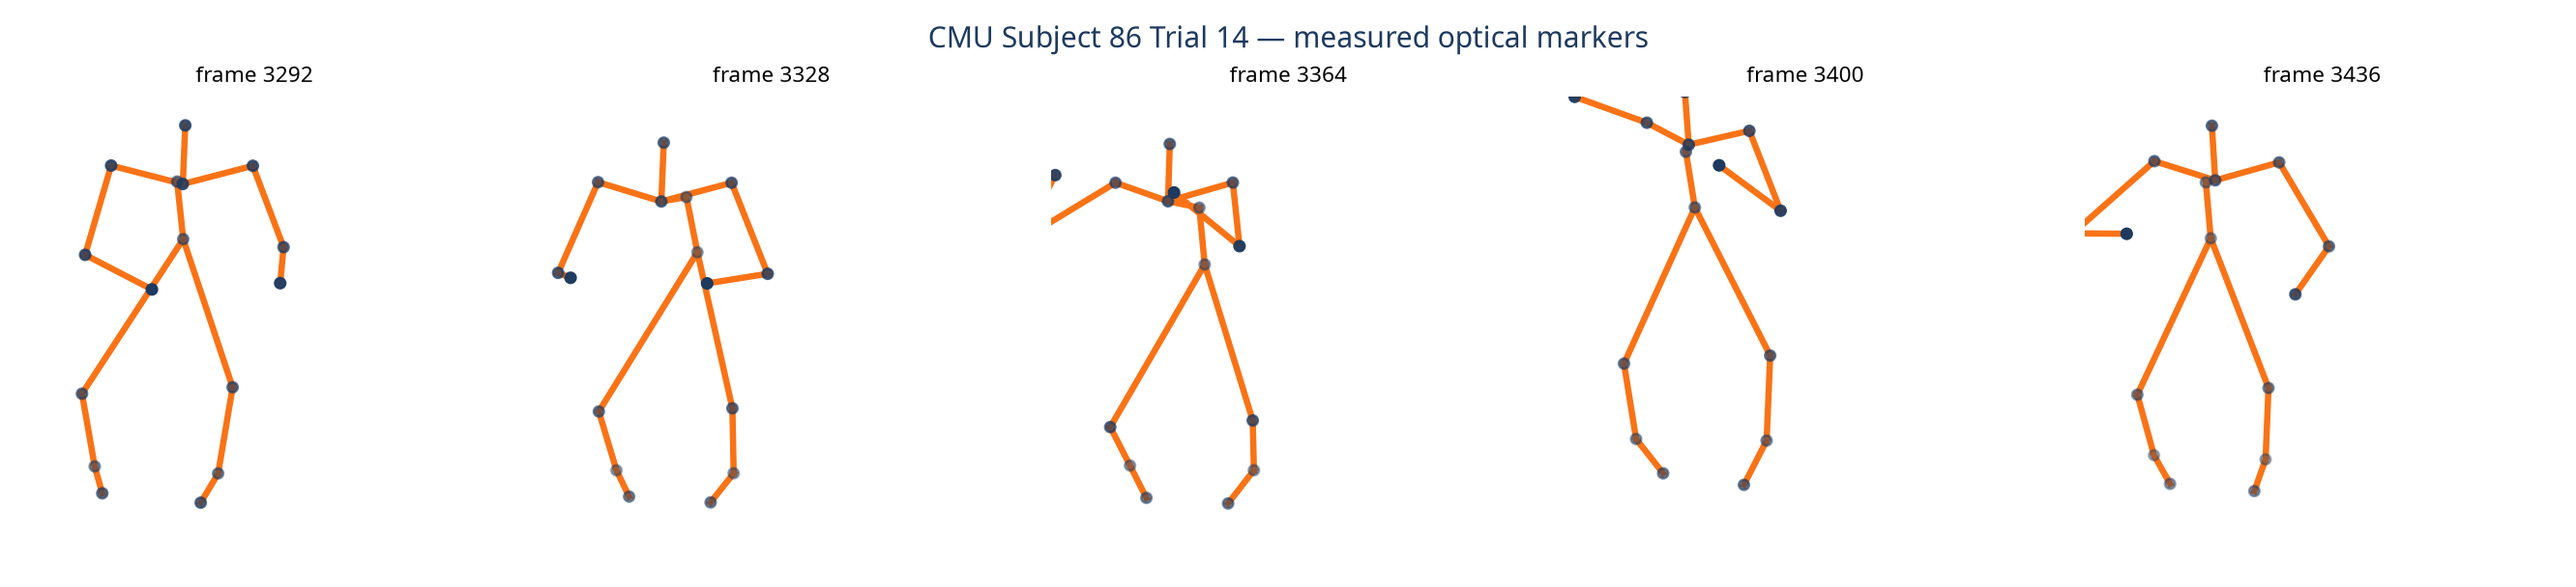
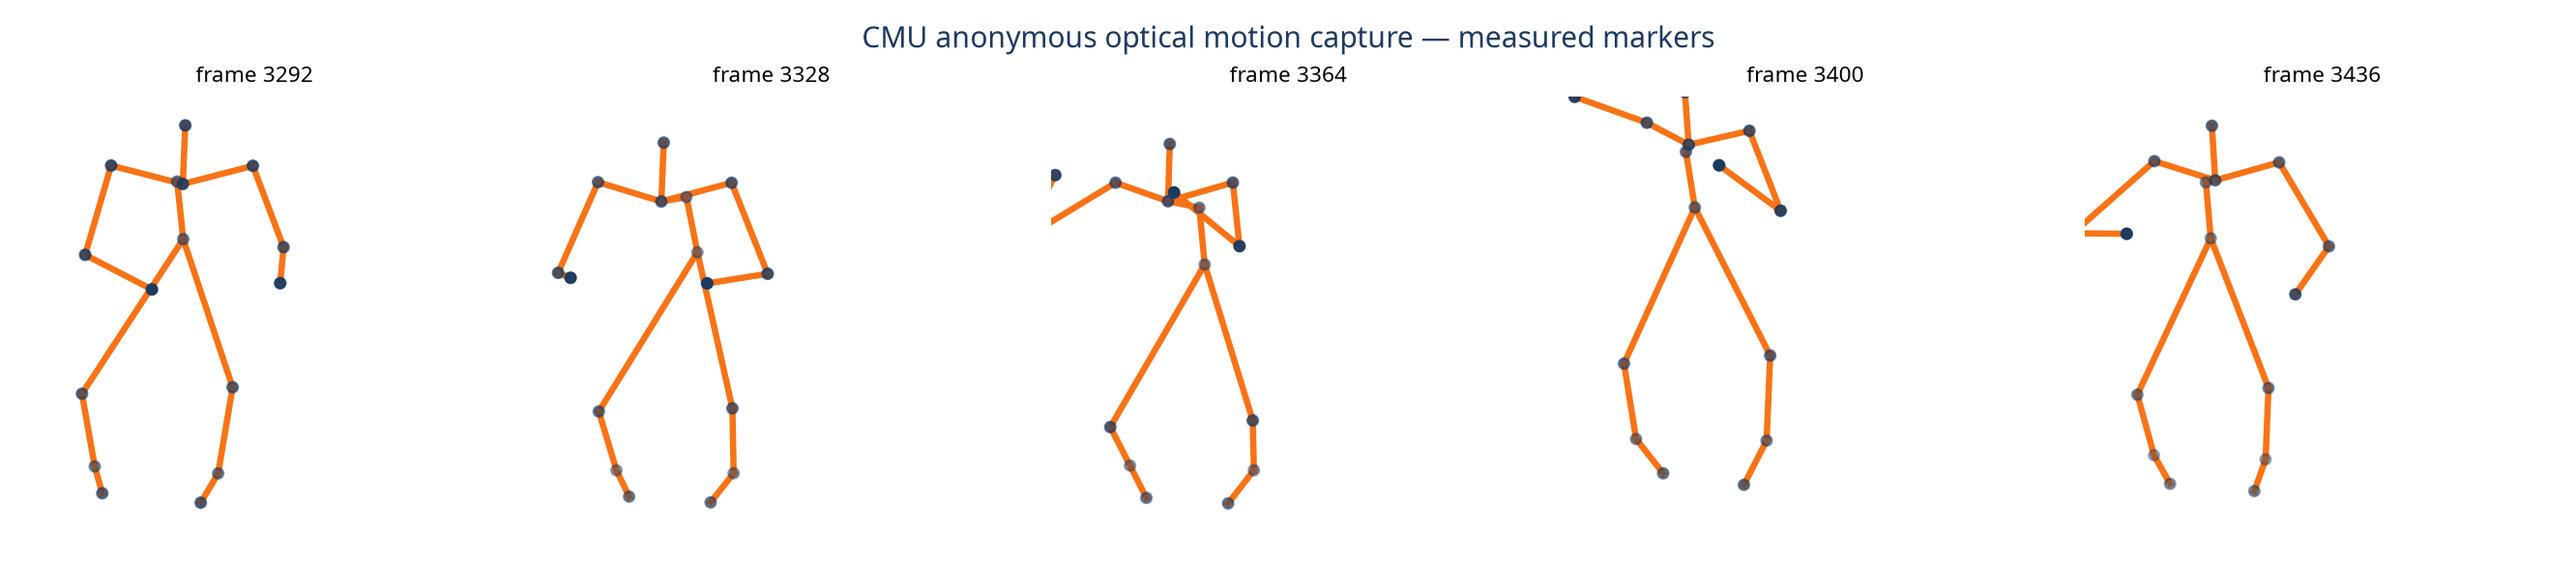
Checkpoint: CMU marker label의 prefix 유무를 모두 처리하도록 inspection·event detection·audit rendering·conversion 도구를 보정했습니다. Subject 6 Trial 14와 Subject 86 Trial 14는 수정된 wrist-lift·arm-extension·visual audit 기준에서 승인하지 않았고, 공식 CMU basketball category가 shooting을 명시한 source를 Subject 6 Trial 14·15로 한정함을 기록했습니다. 

Changed region(s): [[0.3427, 0.0312, 0.6543, 0.0938]]

diff --git a/scripts/render-cmu-c3d-segment.py b/scripts/render-cmu-c3d-segment.py
@@ -46,7 +46,7 @@ def main() -> int:
     offsets = [-72, -36, 0, 36, 72]
     resolved: dict[str, list[int]] = {}
     for joint, suffixes in JOINT_MARKERS.items():
-        resolved[joint] = [next(index for index, label in enumerate(labels) if label.strip().endswith(suffix)) for suffix in suffixes]
+        resolved[joint] = [next(index for index, label in enumerate(labels) if label.strip().split(":")[-1] == suffix.removeprefix(":")) for suffix in suffixes]
 
     figure = plt.figure(figsize=(15, 3.4))
     for panel, offset in enumerate(offsets, start=1):

diff --git a/scripts/convert-cmu-c3d-to-product-motion.py b/scripts/convert-cmu-c3d-to-product-motion.py
@@ -53,7 +53,8 @@ def parse_args() -> argparse.Namespace:
 
 
 def point_index(labels: list[str], suffix: str) -> int:
-    return next(index for index, label in enumerate(labels) if label.strip().endswith(suffix))
+    target = suffix.removeprefix(":")
+    return next(index for index, label in enumerate(labels) if label.strip().split(":")[-1] == target)
 
 
 def measured_joints(points: np.ndarray, indexes: dict[str, list[int]], frame: int) -> dict[str, np.ndarray]:

diff --git a/scripts/find-cmu-shooting-segments.py b/scripts/find-cmu-shooting-segments.py
@@ -24,8 +24,9 @@ def parse_args() -> argparse.Namespace:
 
 
 def marker_index(labels: list[str], suffix: str) -> int:
+    target = suffix.removeprefix(":")
     for index, label in enumerate(labels):
-        if label.strip().endswith(suffix):
+        if label.strip().split(":")[-1] == target:
             return index
     raise ValueError(f"Missing marker ending with {suffix}")
 

diff --git a/docs/real-3d-source-research.md b/docs/real-3d-source-research.md
@@ -39,17 +39,23 @@ Kansas 연구팀의 공개 논문은 실제 농구 경험자를 대상으로 한
 
 이 결과는 OCW·대학 자료가 캡처 **방법론**에는 유용하지만, 논문만으로 실제 모션 파일을 생성하면 안 된다는 경계를 확인한다.
 
-## CMU Trial 14 실제 marker 감사
+## CMU Trial 실제 marker 감사
+
+### Subject 86 Trial 14 — 유지 보류
 
 공식 C3D 원본을 내려받아 SHA-256 `dc4fb916…f22c80a0`으로 기록하고, 43개 marker·6,539 frame·120 fps·54.492초의 실제 optical marker time-series임을 확인했다. 연속 marker 조건을 통과한 C3D이므로 M1 후보 상태를 유지한다.
 
-손목이 어깨보다 45 mm 이상 높고 팔꿈치가 135° 이상 연장된 두 구간(frame 3364, 3754)을 **측정 marker만**으로 선별해 3D audit sheet로 검토했다. 두 구간 모두 한쪽 손이 머리 위로 상승하는 실제 전신 동작을 보여 주지만, C3D의 marker 목록에는 공 marker·명시적인 release event가 없다. 따라서 현재 상태는 `actual_optical_basketball_motion_candidate`이며, 아직 `approved_shooting_form`이 아니다. 다음 단계는 원 데이터베이스의 rendered animation 및 프레임 시퀀스에서 준비→공 release→팔로우스루를 수동 확인하는 것이다.
+frame 3364와 3754 주변의 measured-marker audit sheet를 재검토했다. 두 구간은 실제 전신에서 한쪽 팔이 머리 위로 움직이는 장면을 보이지만, marker 목록에는 공 marker가 없고, 수정된 prefix-agnostic wrist/shoulder event 검출에서는 손목이 어깨보다 높고 135° 이상 연장된 release 조건을 재현하지 못했다. 따라서 이 두 frame은 **슛폼으로 승인하지 않는다**. 상태는 `actual_optical_basketball_motion_candidate`이며, 라이브러리·추천에서 제외한다.
 
-공식 subject 목록의 rendered animation 링크는 현재 브라우저 세션에서 직접 재생 페이지로 전환되지 않았다. 따라서 외부 rendered movie에 의존하지 않고, C3D marker 원본에서 만들어진 audit sheet·관절 궤적·명시적 source description을 함께 사용해 다음 품질 단계를 진행한다.
+### Subject 6 Trial 14·15 — trial-level 설명 분리
 
-CMU Subject 6은 상위 subject 설명에 `dribble, shoot basketball`가 포함되지만, 확인된 Trial 5의 명시적 motion description은 `basketball - forward dribble`이다. 따라서 Subject 6 Trial 5는 슈팅 모델 source에서 제외하고, 드리블·전신 marker 검증용으로만 별도 보관한다. subject-level 키워드로 trial-level 슈팅을 가정하지 않는다.
+Subject 6 Trial **14**는 `basketball - crossover dribble, shoot`, Trial **15**는 `basketball - dribble, shoot`로 명시되고 120 fps C3D를 제공한다.[1] Trial 14는 marker 연속성 검사를 통과했으나 손목 상승·팔 연장 release event가 0개이므로 `unapproved_no_measured_release_event`로 유지한다.
 
-CMU 전체 농구 목록을 다시 확인한 결과, Subject 6 Trial **14**는 `basketball - crossover dribble, shoot`, Trial **15**는 `basketball - dribble, shoot`로 명시된다. 두 trial은 실제 shoot 동작이 포함된 더 명확한 C3D 후보이며, 공식 목록상 120 fps다.[1] 다음 실제 데이터 검증은 Trial 14·15의 C3D 원본을 확보해 trial 14/15 각각의 marker 연속성·실제 release·팔로우스루를 분리 감사하는 방식으로 진행한다.
+2026-08-20 공식 Subject 6 trial table 재검토에서 1–13은 walk 또는 forward/backward/sideways/crossover/free-style dribble로만 명시되었고, shooting을 명시한 행은 14와 15뿐이었다. 따라서 Subject 6의 나머지 13개 trial은 슈팅 source 탐색·다운로드 대상에서 제외한다.
+
+같은 날짜의 CMU 공식 `basketball` motion category 전체 목록도 Subject 6의 2–15번 trial만 반환했다. 즉 현재 CMU category에서 trial-level shooting을 명시한 추가 source는 Trial 14·15 외에는 확인되지 않았다. Trial 15의 단일 승인 모션을 복제해 여러 모델로 수를 채우지 않으며, 후속 제품 모델은 별도 source에서 provenance를 다시 확보해야 한다.
+
+Trial 15는 SHA-256 `ebcec61b…cf842e5d5`, 255 marker, 545 frame의 원본을 통과했고, right wrist가 어깨보다 **249.97 mm** 높고 팔꿈치가 **139.63°** 연장된 frame 353 후보를 확인했다. 준비→딥→상승→릴리스→팔로우스루의 측정 marker keyframe(269, 317, 335, 353, 385)을 16관절 제품 schema로 정규화했다. source hash·marker 연속성·anonymous identity·release/follow-through gate를 모두 통과해 `approved_actual_optical_mocap_3d`로 최초 승인했다. 이 source는 특정 선수 모사나 이름 표시에 사용하지 않는다.
 
 ## 3차 확인: NPU RGB+D 및 공개 action datasets
 
@@ -62,6 +68,17 @@ SpaceJam 기반 공개 GitHub 프로젝트는 `Shoot` action label과 joints `.n
 | NPU RGB+D | 논문상 실제 선수 | 논문상 25 joint | 연결 저장소 404 | `lead_only_unavailable` |
 | SpaceJam / action recognition | 실제 영상 | metric 3D 불명 | action dataset 조건 미확인 | `not_3d_motion_source` |
 
+## 4차 확인: SportsPose
+
+SportsPose는 24명의 subject·5종 sport activity에서 176,000개 이상 3D pose를 제공하며 marker-based system과 비교한 평균 오차 34.5 mm를 보고하는 공개 연구 데이터셋이다.[5] 따라서 동적 실제 인체 3D pose source로서는 유력한 연구 후보이다. 그러나 공식 프로젝트 페이지와 repository README에는 basketball shooting activity의 포함 여부, sequence별 움직임 설명, product redistribution·commercial-use license가 명시되지 않았다. repository 자체에도 `LICENSE` 파일이 확인되지 않았다.
+
+| 검증 항목 | 판정 |
+| --- | --- |
+| 실제 인체 3D pose·다중 view 연구 데이터 | 확인 |
+| basketball shooting 연속 구간 | 미확인 |
+| raw sequence 이용 조건·상업 제품 조건 | 미확인 |
+| 제품용 3D source 승인 | `unapproved_license_and_activity_gap` |
+
 ## References
 
 [1] [CMU Graphics Lab Motion Capture Database — Subject 86](http://mocap.cs.cmu.edu/search.php?subjectnumber=86)
@@ -71,3 +88,5 @@ SpaceJam 기반 공개 GitHub 프로젝트는 `Shoot` action label과 joints `.n
 [3] [NPU RGBD Dataset and a Feature-Enhanced LSTM-DGCN Method](https://www.mdpi.com/2076-3417/11/10/4426)
 
 [4] [Basketball Action Recognition / SpaceJam usage](https://github.com/hkair/Basketball-Action-Recognition)
+
+[5] [SportsPose project page](https://christianingwersen.github.io/SportsPose/) and [repository](https://github.com/ChristianIngwersen/SportsPose)

diff --git a/todo.md b/todo.md
@@ -60,4 +60,5 @@
 - [x] CMU Trial 15 실제 marker 슈팅 구간을 16관절·5단계 actual_optical_mocap_3d 모션으로 변환하고 품질 승인
 - [x] 첫 승인 optical-mocap 익명 모션을 라이브러리·목표 기반 추천·iPhone·웹 3D 뷰어에 반영
 - [x] 실제 CMU 모션의 높은 팔로우스루와 웹 3D 캔버스 프레이밍 회귀 검증
+- [x] CMU Subject 86 Trial 14 후보를 audit sheet·release 기준으로 재검토하고 승인 대상에서 제외
 - [ ] 추가 실제 CMU 슈팅 구간 2–4개를 동일 provenance·릴리스·팔로우스루 기준으로 승인
